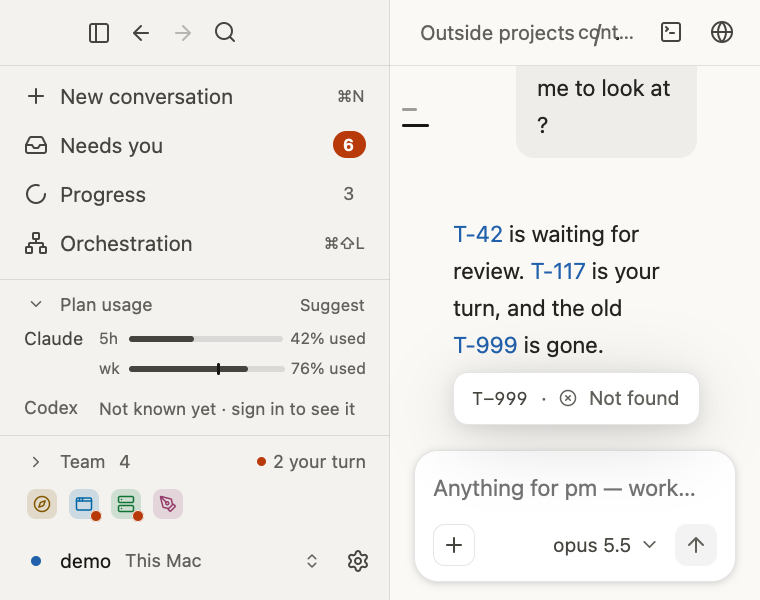
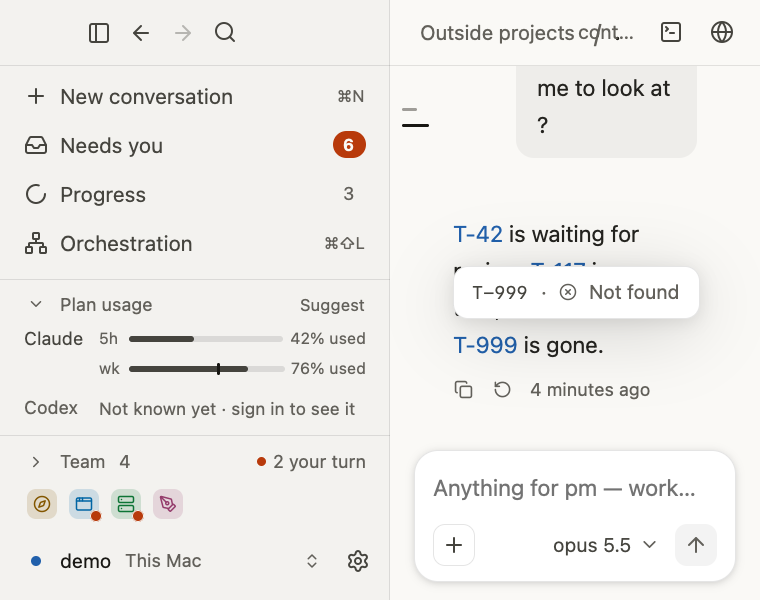
Ticket card: Looking and Not found take the side the ticket's card will, so the answer grows in place

Changed region(s): [[0.6053, 0.42, 0.9079, 0.57], [0.575, 0.63, 0.9079, 0.75]]

diff --git a/crates/desktop/src/views/ticket_card.rs b/crates/desktop/src/views/ticket_card.rs
@@ -52,7 +52,7 @@ const MARGIN: f32 = 8.;
 /// Slack around a link the pointer may wander in without leaving it.
 const SLACK: f32 = 2.;
 /// The size a card is taken to be before it was ever drawn.
-const GUESS: (f32, f32) = (WIDTH, 230.);
+const GUESS: (f32, f32) = (WIDTH, 300.);
 /// The excerpt: this many lines, then it fades out.
 const EXCERPT_LINES: f32 = 8.;
 /// How tall the fade over a cut edge of the card's text is.
@@ -776,7 +776,7 @@ impl Render for TicketCard {
             None if found => GUESS,
             None => (200., 36.),
         };
-        let ((x, y, side), room) = fit(target.anchor, natural, window_size, target.prefer);
+        let ((x, y, side), room) = fit_for(target.anchor, natural, window_size, target.prefer, found);
         // Cut to the room it was given, it stays "cut" next time: the side is picked by what it would be uncut.
         self.capped = self.drawn.get().is_some_and(|r| r.h >= room - 0.5);
         let drawn = self.drawn.clone();
@@ -818,6 +818,16 @@ fn fit(anchor: Rect, natural: (f32, f32), window: (f32, f32), prefer: Side) -> (
     let (_, _, side) = place(anchor, natural, window, prefer);
     let room = room_on(anchor, window.1, side);
     (place(anchor, (natural.0, natural.1.min(room)), window, prefer), room)
+}
+
+/// [`fit`] for the card of a ticket, or (`found` false) for the small one standing in for it: it takes the
+/// side the ticket's card would, so the answer grows in the place the look was, and never lands on the next line.
+fn fit_for(anchor: Rect, natural: (f32, f32), window: (f32, f32), prefer: Side, found: bool) -> ((f32, f32, Side), f32) {
+    if found {
+        return fit(anchor, natural, window, prefer);
+    }
+    let (_, _, side) = place(anchor, GUESS, window, prefer);
+    fit(anchor, natural, window, side)
 }
 
 /// The room between the window's margin and the link, on `side` of it.
@@ -1202,7 +1212,7 @@ mod tests {
 
     use equipe_core::protocol::{TicketId, TicketStatus};
 
-    use super::{Act, CLOSE_AFTER, Hover, OPEN_AFTER, Phase, RESULT_FOR, Rect, SCROLL_QUIET, Side, Target, act_for_key, acts, done_words, fit, place, tallest};
+    use super::{Act, CLOSE_AFTER, Hover, OPEN_AFTER, Phase, RESULT_FOR, Rect, SCROLL_QUIET, Side, Target, act_for_key, acts, done_words, fit, fit_for, place, tallest};
     use crate::board::MergeWay;
 
     const WIN: (f32, f32) = (1200., 800.);
@@ -1246,6 +1256,19 @@ mod tests {
         // A card cut shorter than the room below, taken as if natural, sinks under the link: the regression.
         let ((_, _, sunk), _) = fit(anchor, (380., 170.), win, Side::Below);
         assert_eq!(sunk, Side::Below);
+    }
+
+    #[test]
+    fn looking_and_not_found_take_the_side_the_ticket_card_will_take() {
+        // 760×600: 300 above the link, 270 below; the ticket card (about 300) goes above.
+        let (anchor, win) = (link(100., 300.), (760., 600.));
+        let ticket = fit_for(anchor, (380., 400.), win, Side::Below, true).0;
+        let looking = fit_for(anchor, (200., 36.), win, Side::Below, false).0;
+        assert_eq!((ticket.2, looking.2), (Side::Above, Side::Above));
+        // Its foot a gap over the link, as the ticket's card's is: the answer grows upward from the same edge.
+        assert!((looking.1 + 36. - (300. - 6.)).abs() < 0.01, "{looking:?}");
+        // Where the ticket's card fits below (a link high up), the small one goes below too.
+        assert_eq!(fit_for(link(100., 40.), (200., 36.), win, Side::Below, false).0.2, Side::Below);
     }
 
     #[test]
